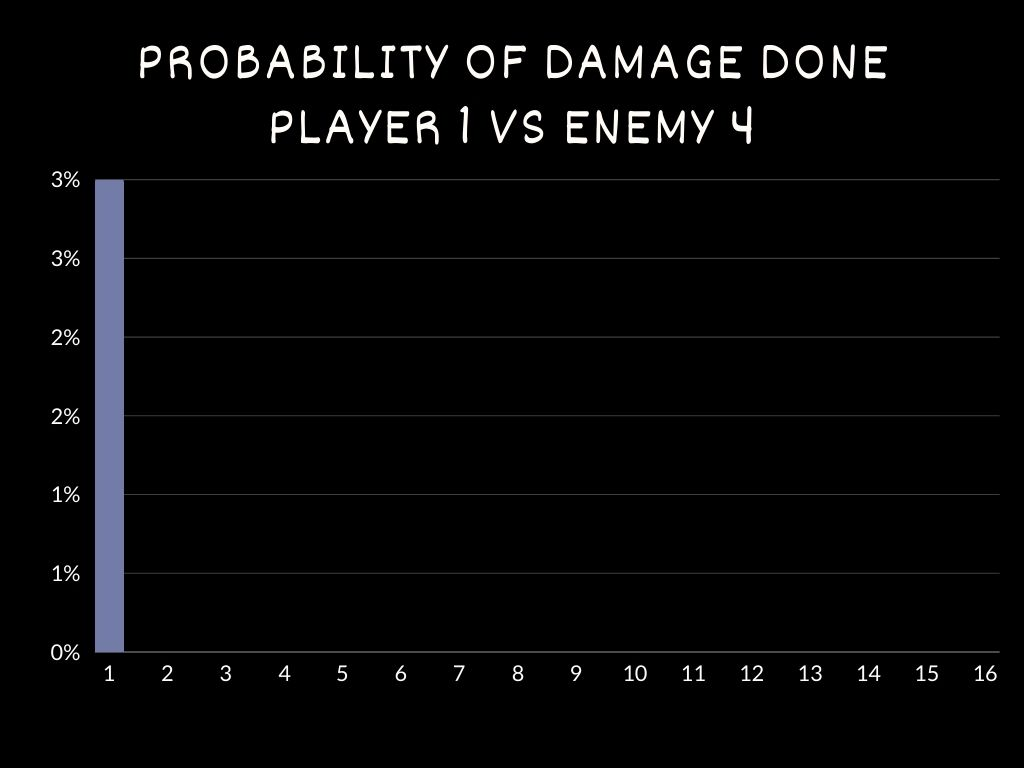
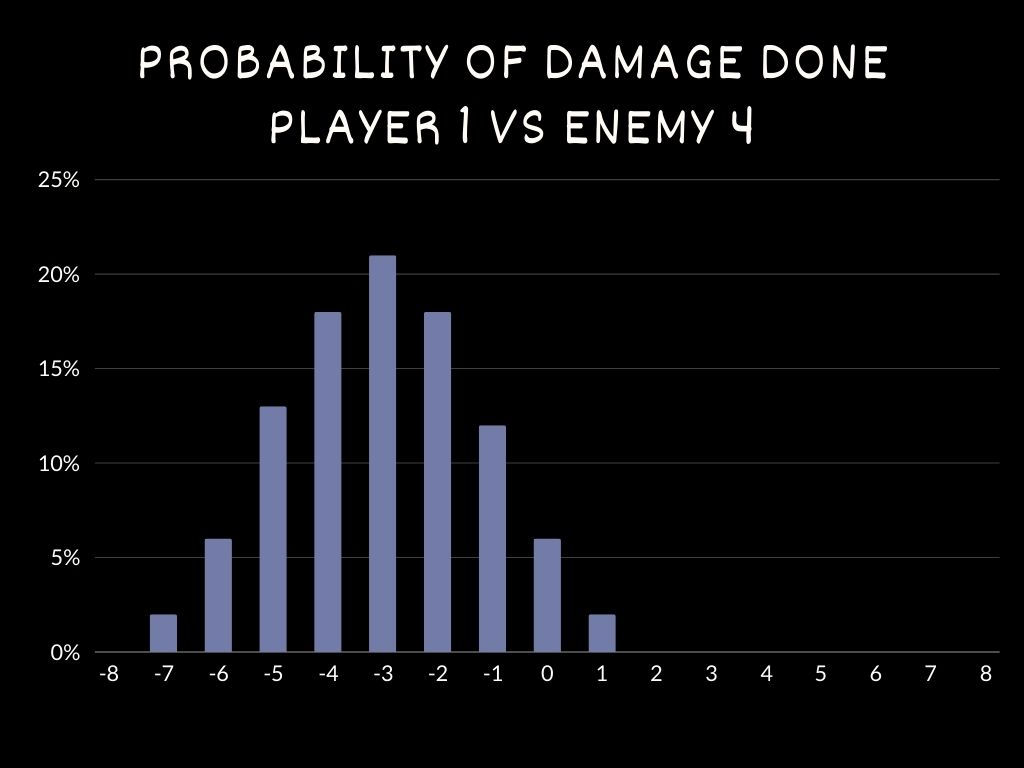
Add charts and description

diff --git a/src/components/Fight.tsx b/src/components/Fight.tsx
@@ -29,7 +29,7 @@ const Fight = () => {
                 <p className="font-body text-center text-md font-bold mb-4 px-8">
                     The Damage Probability Calculator displays the probability
                     of damage player can cause to the enemy using arbitrary
-                    numbers of dices.
+                    numbers of dices. The probabilities are calculated by running simulations 1000 times for each chart.
                 </p>
                 <div className="p-4 flex flex-col sm:flex-row justify-center items-center mx-auto">
                     <div className="flex-1 m-4">
